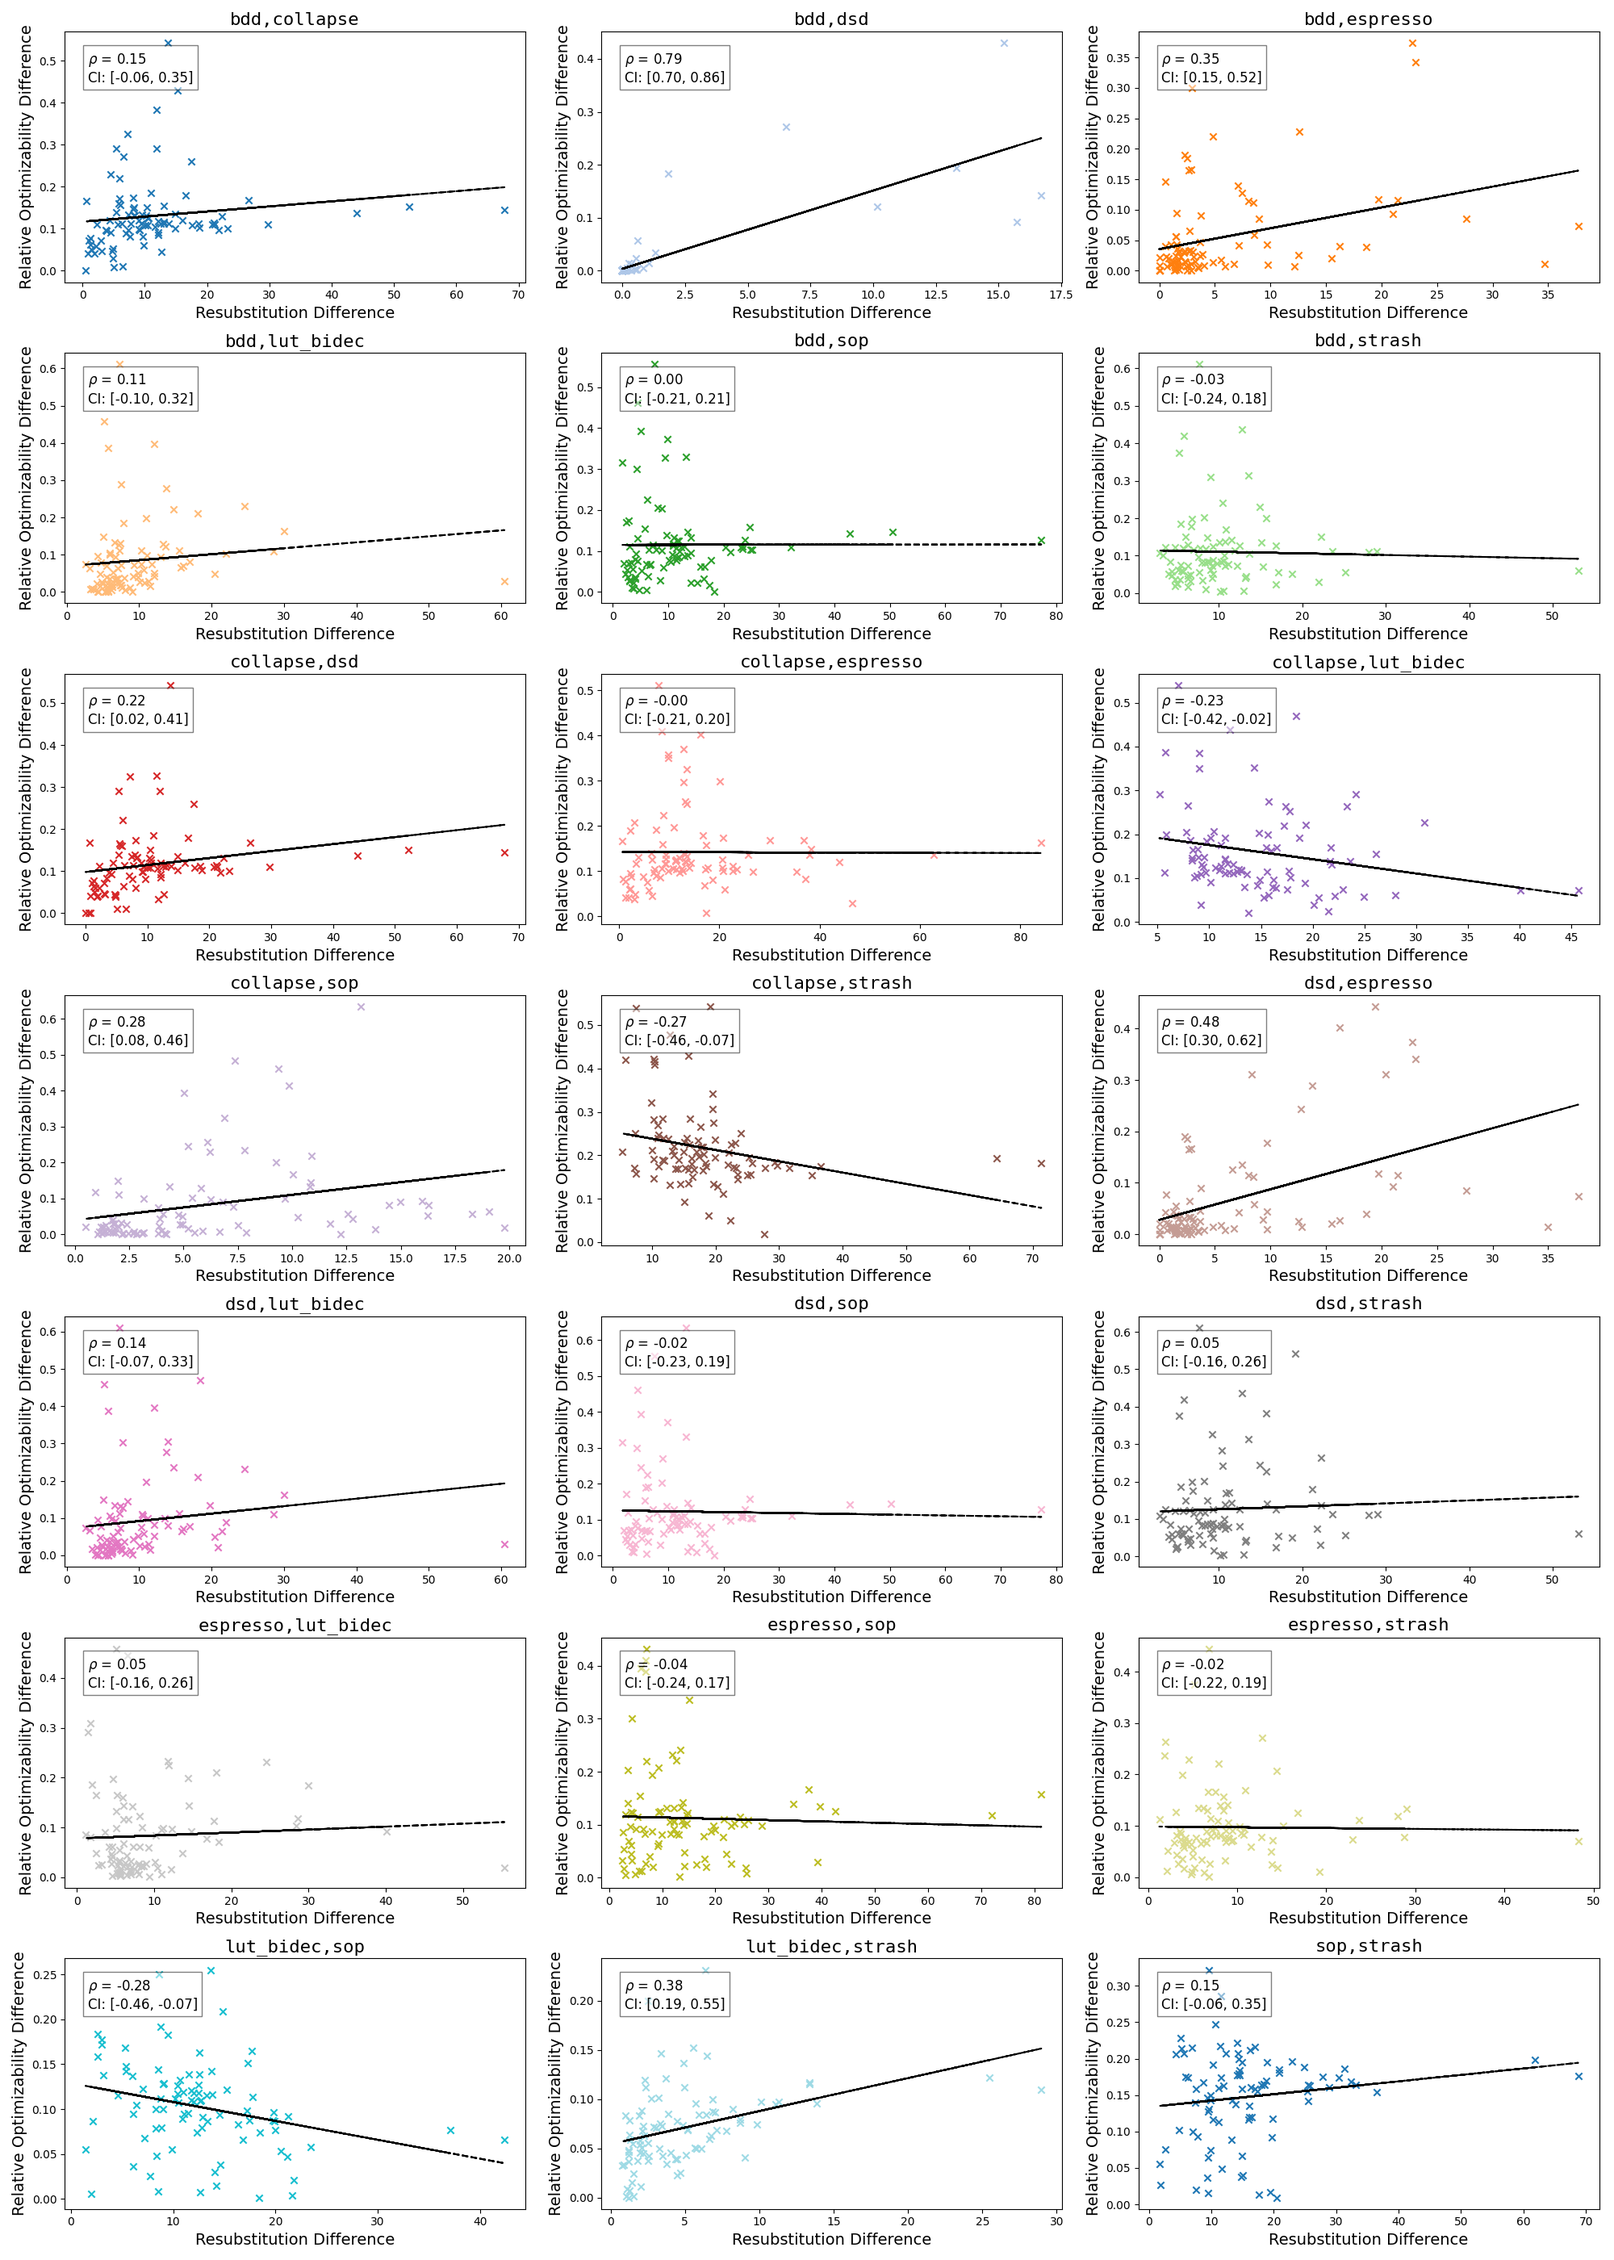
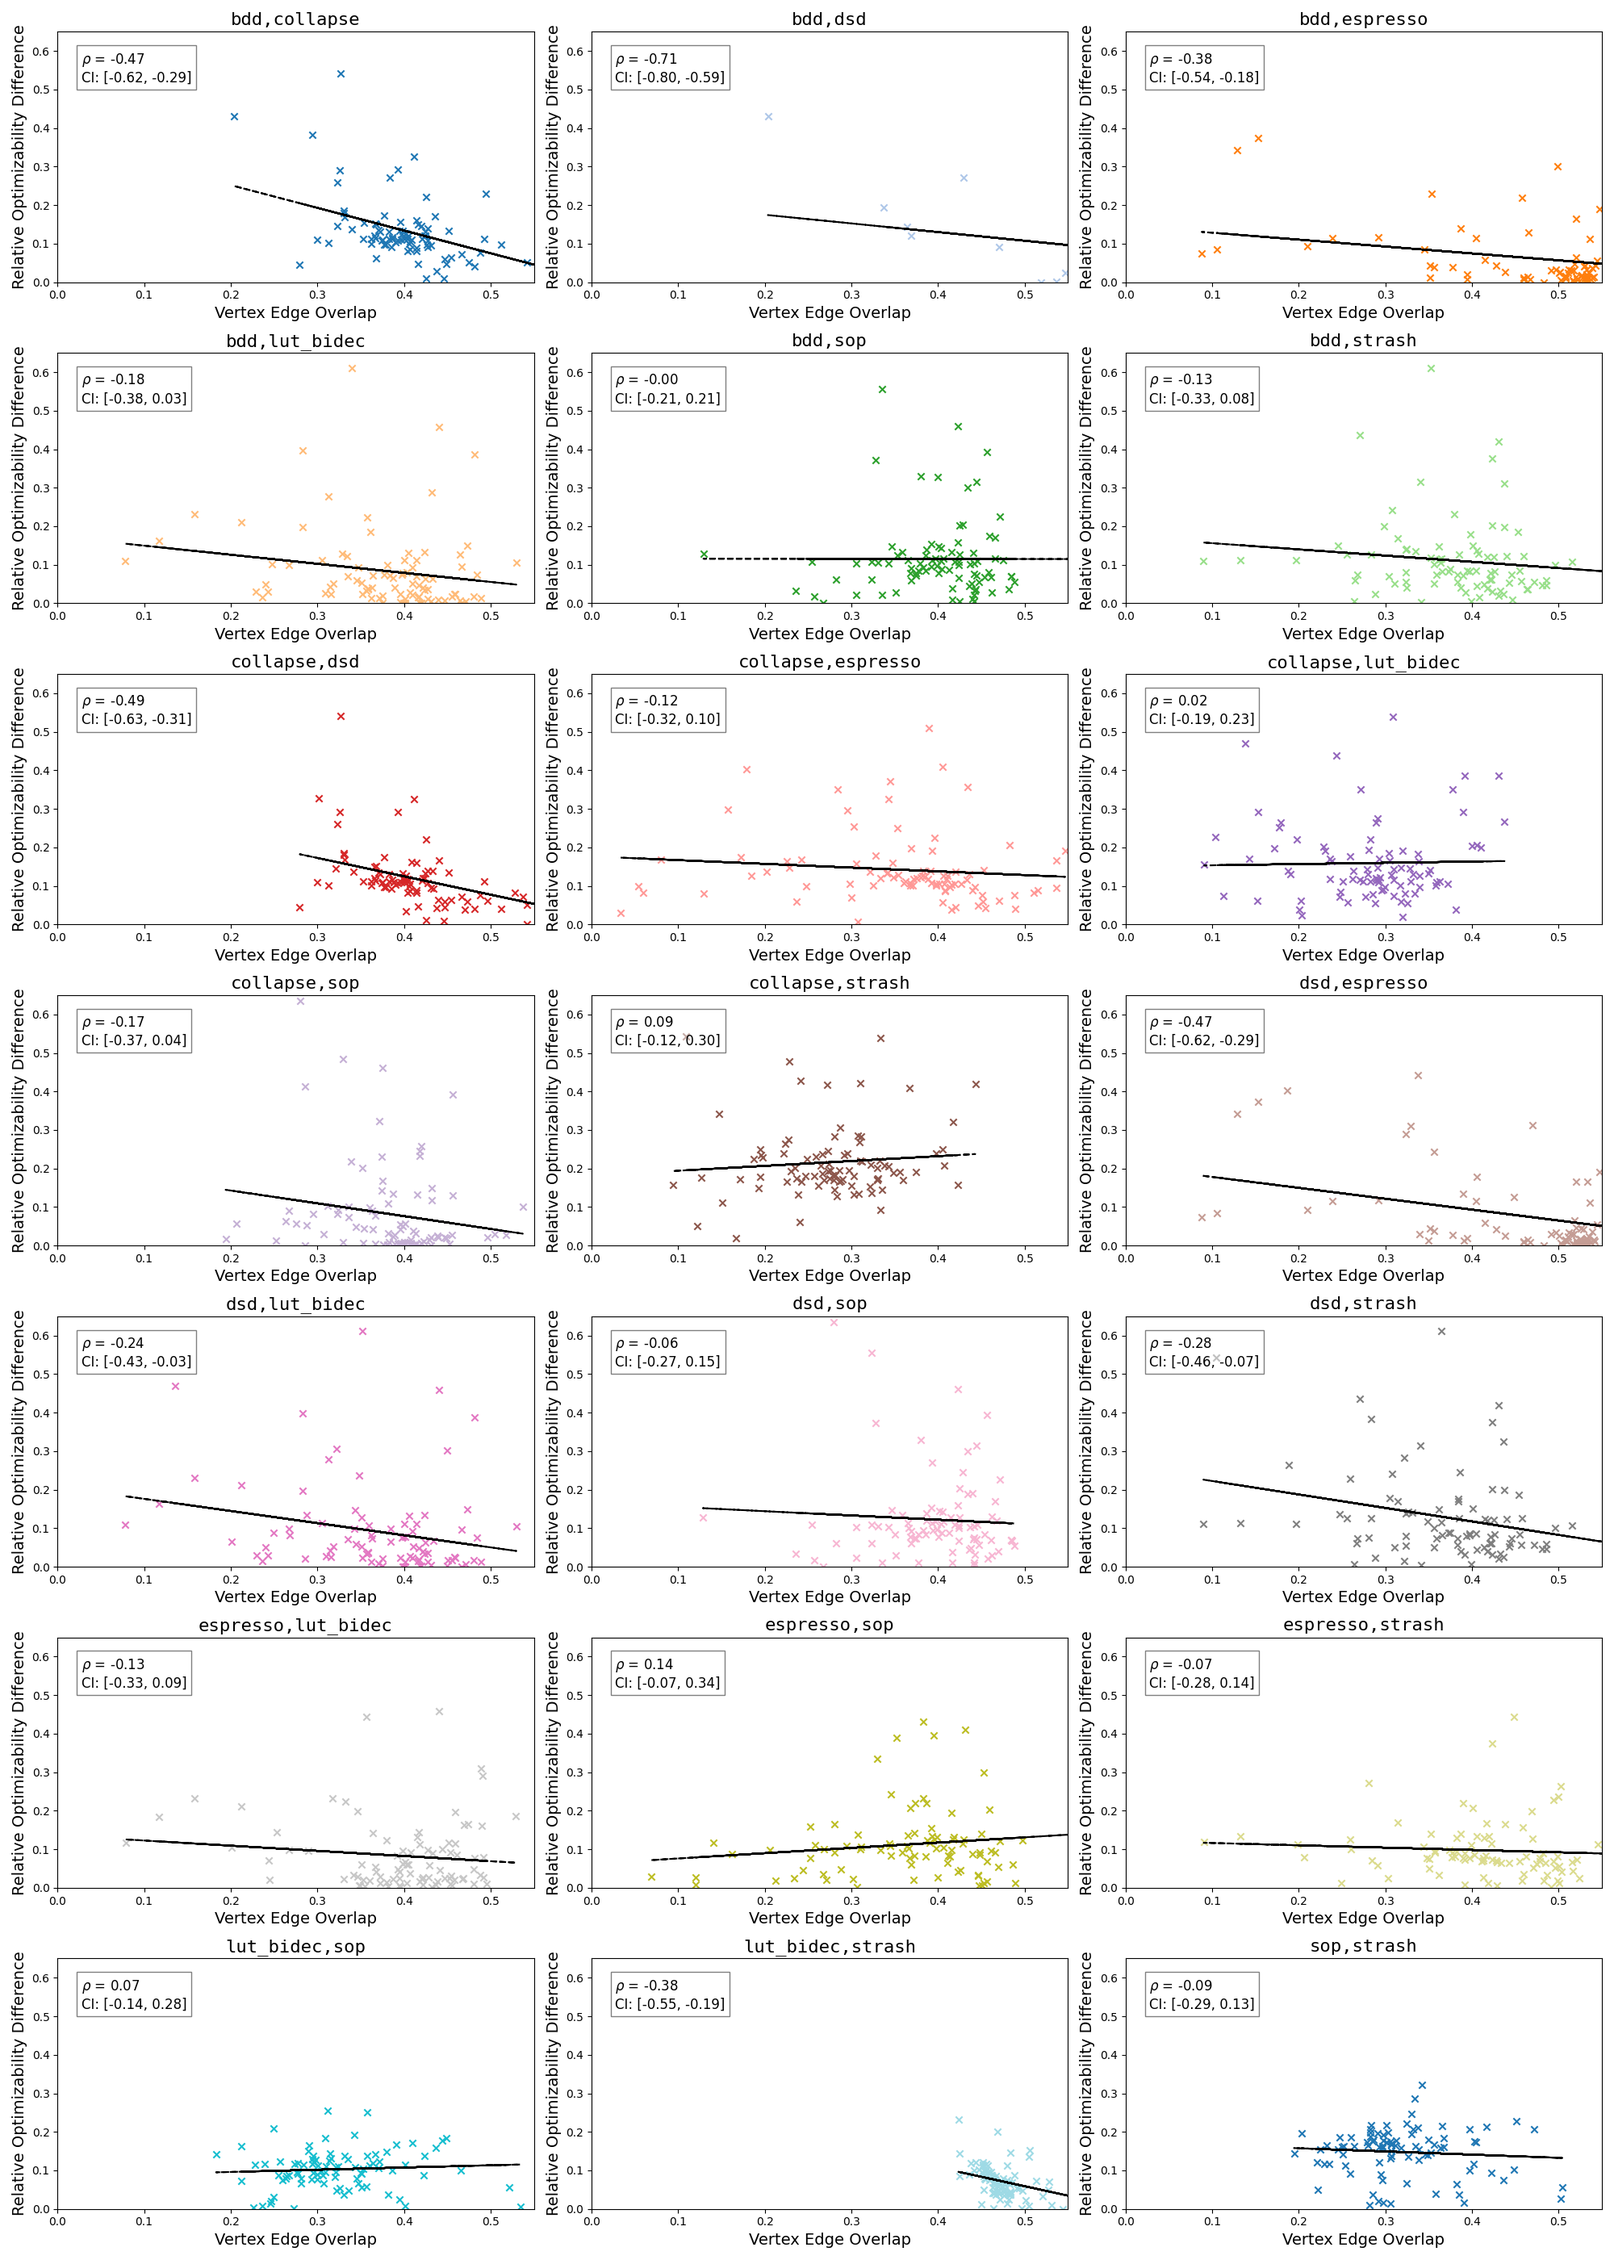
plots done for original 5 scores

diff --git a/plots/plot.py b/plots/plot.py
@@ -6,7 +6,7 @@ from scipy.stats import norm
 
 # Load both CSVs
 y_data = pd.read_csv('/Users/bellavg/AIG_SIM/data/results/relative_size_diff_metric_scores.csv', index_col=0)  # CSV containing Y values
-x_data = pd.read_csv('/Users/bellavg/AIG_SIM/data/results/adj_sd_scores.csv', index_col=0)  # CSV containing X values
+x_data = pd.read_csv('/Users/bellavg/AIG_SIM/data/results/veo_scores.csv', index_col=0)  # CSV containing X values
 
 # Initialize lists to store statistics
 all_x_vals = []
@@ -83,12 +83,12 @@ for idx, column in enumerate(x_data.columns):
     axes[idx].set_title(column, fontsize=16, fontfamily='monospace')  # Title with larger font
 
     # Set axis labels with larger font size
-    axes[idx].set_xlabel('Resubstitution Difference', fontsize=14)  # Larger x-axis label
+    axes[idx].set_xlabel('Vertex Edge Overlap', fontsize=14)  # Larger x-axis label
     axes[idx].set_ylabel('Relative Optimizability Difference', fontsize=14)  # Larger y-axis label
 
-    # # Fix the axis limits
-    # axes[idx].set_xlim(0, 0.55)  # Fix x-axis from 0 to 0.55
-    # axes[idx].set_ylim(0, 0.65)  # Fix y-axis from 0 to 0.65
+    # Fix the axis limits
+    axes[idx].set_xlim(0, 0.55)  # Fix x-axis from 0 to 0.55
+    axes[idx].set_ylim(0, 0.65)  # Fix y-axis from 0 to 0.65
 
 # Hide any unused subplots if the number of subplots doesn't fill the grid exactly
 for i in range(num_columns, len(axes)):
